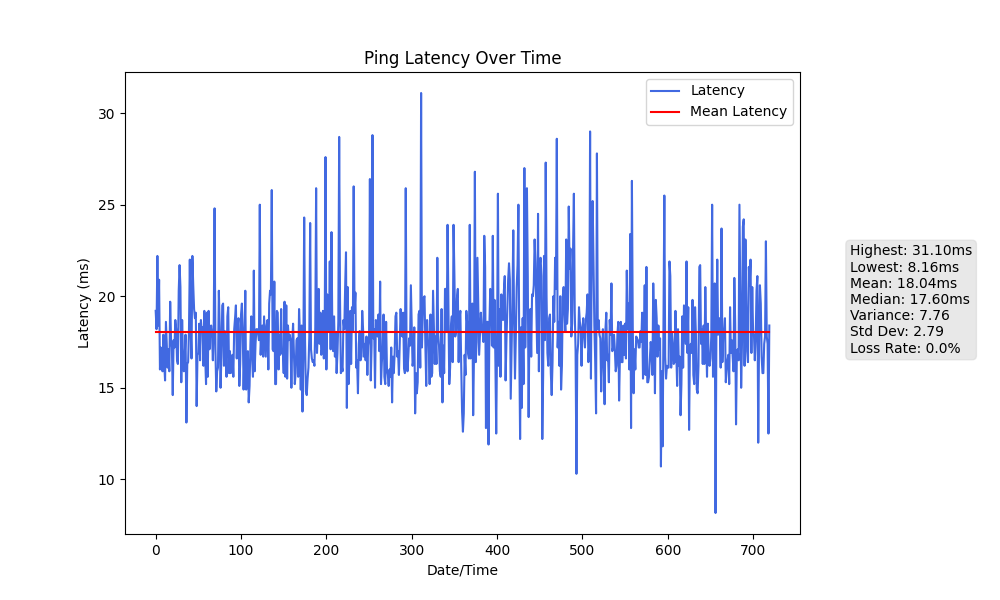
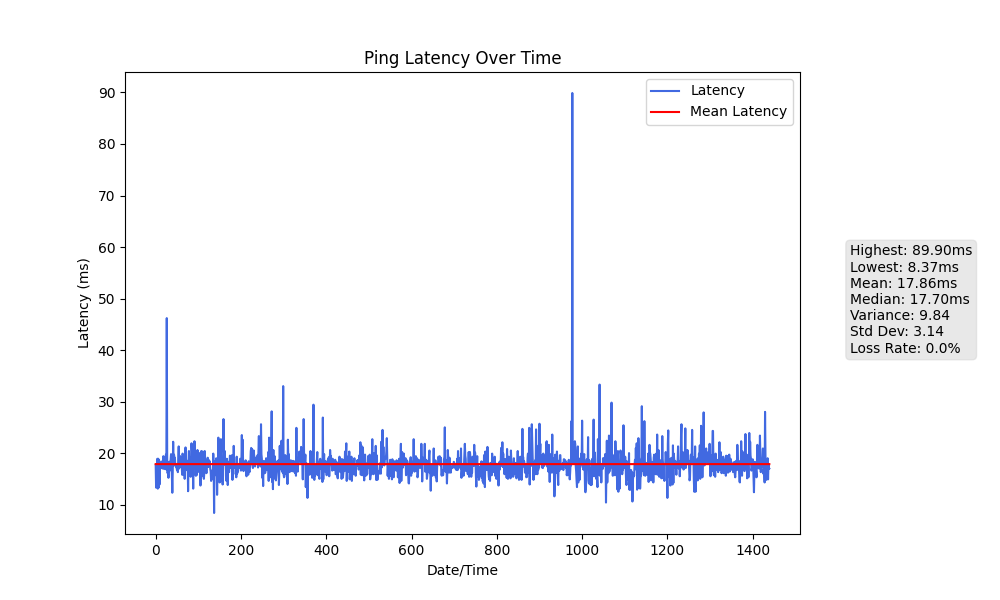
update latency graph

diff --git a/main.py b/main.py
@@ -5,7 +5,7 @@ import numpy as np
 import os
 from datetime import datetime, timedelta
 
-pass_few_hours = 12
+pass_few_hours = 24
 log = False
 
 # Change the path to your directory
